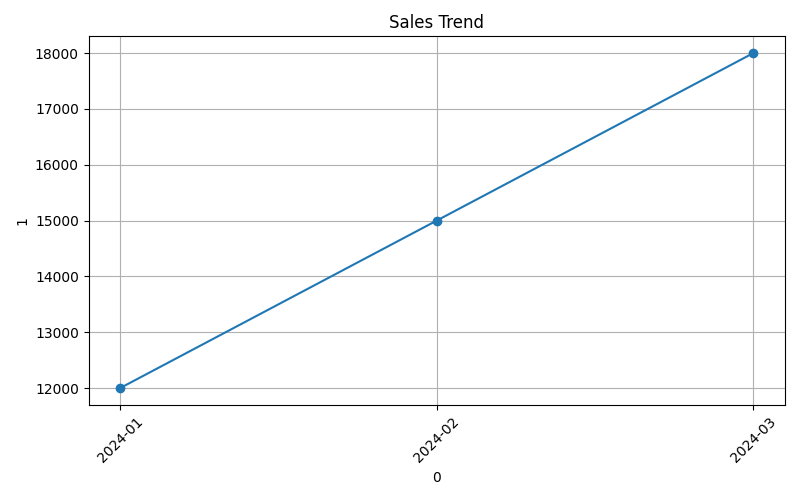
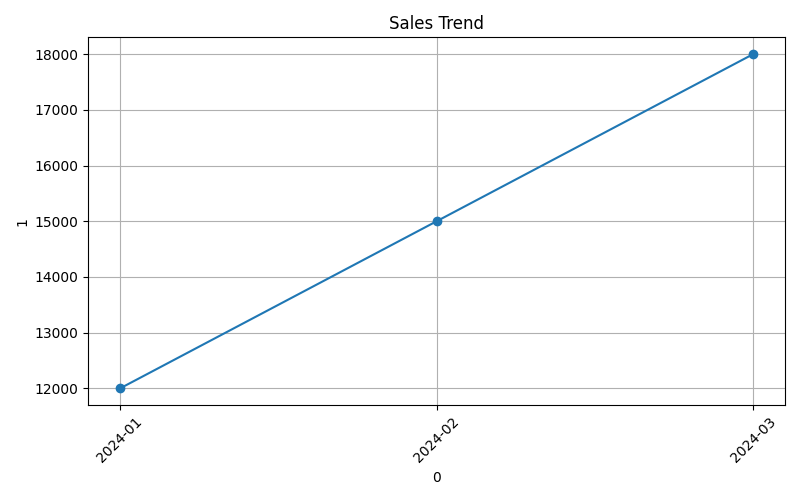
streamlit_app.py

diff --git a/chapter6/streamlit_app.py b/chapter6/streamlit_app.py
@@ -1,0 +1,40 @@
+import streamlit as st
+import os
+from data_agent import agent_executor
+
+st.title("📊 数据分析智能助手")
+
+# 初始化聊天记录
+if "messages" not in st.session_state:
+    st.session_state.messages = []
+
+# 显示历史消息
+for message in st.session_state.messages:
+    with st.chat_message(message["role"]):
+        st.markdown(message["content"])
+        if "image" in message:
+            st.image(message["image"], caption="分析图表", use_column_width=True)
+
+# 接收用户输入
+if prompt := st.chat_input("您好，请问有什么可以帮您分析的？"):
+    # 将用户消息添加到聊天记录
+    st.session_state.messages.append({"role": "user", "content": prompt})
+    # 显示用户消息
+    with st.chat_message("user"):
+        st.markdown(prompt)
+
+    # 调用agent获取回复
+    with st.chat_message("assistant"):
+        with st.spinner("思考中..."):
+            response = agent_executor.invoke({"input": prompt})
+            response_content = response.get("output", "")
+            st.markdown(response_content)
+
+            # 检查是否生成了图片
+            image_path = "sales_trend.png"
+            if os.path.exists(image_path):
+                st.image(image_path, caption="分析图表", use_container_width=True)
+                # 将图片和回复一起存入session
+                st.session_state.messages.append({"role": "assistant", "content": response_content, "image": image_path})
+            else:
+                st.session_state.messages.append({"role": "assistant", "content": response_content})
